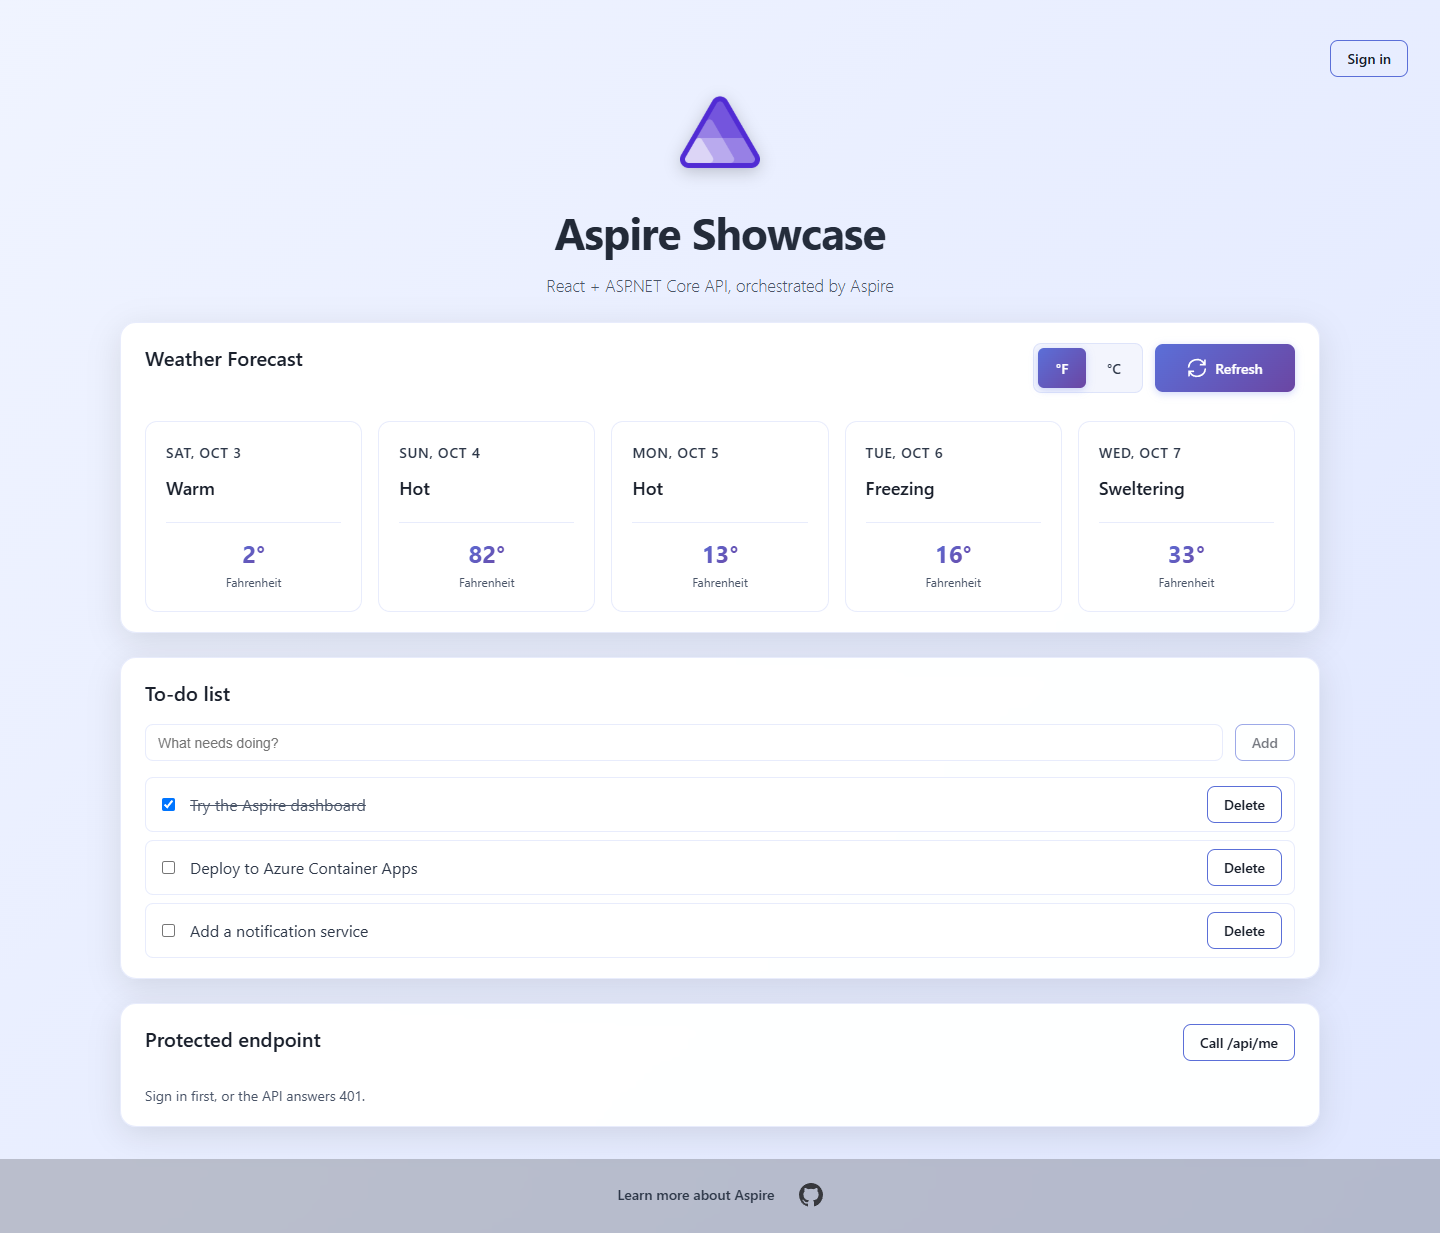
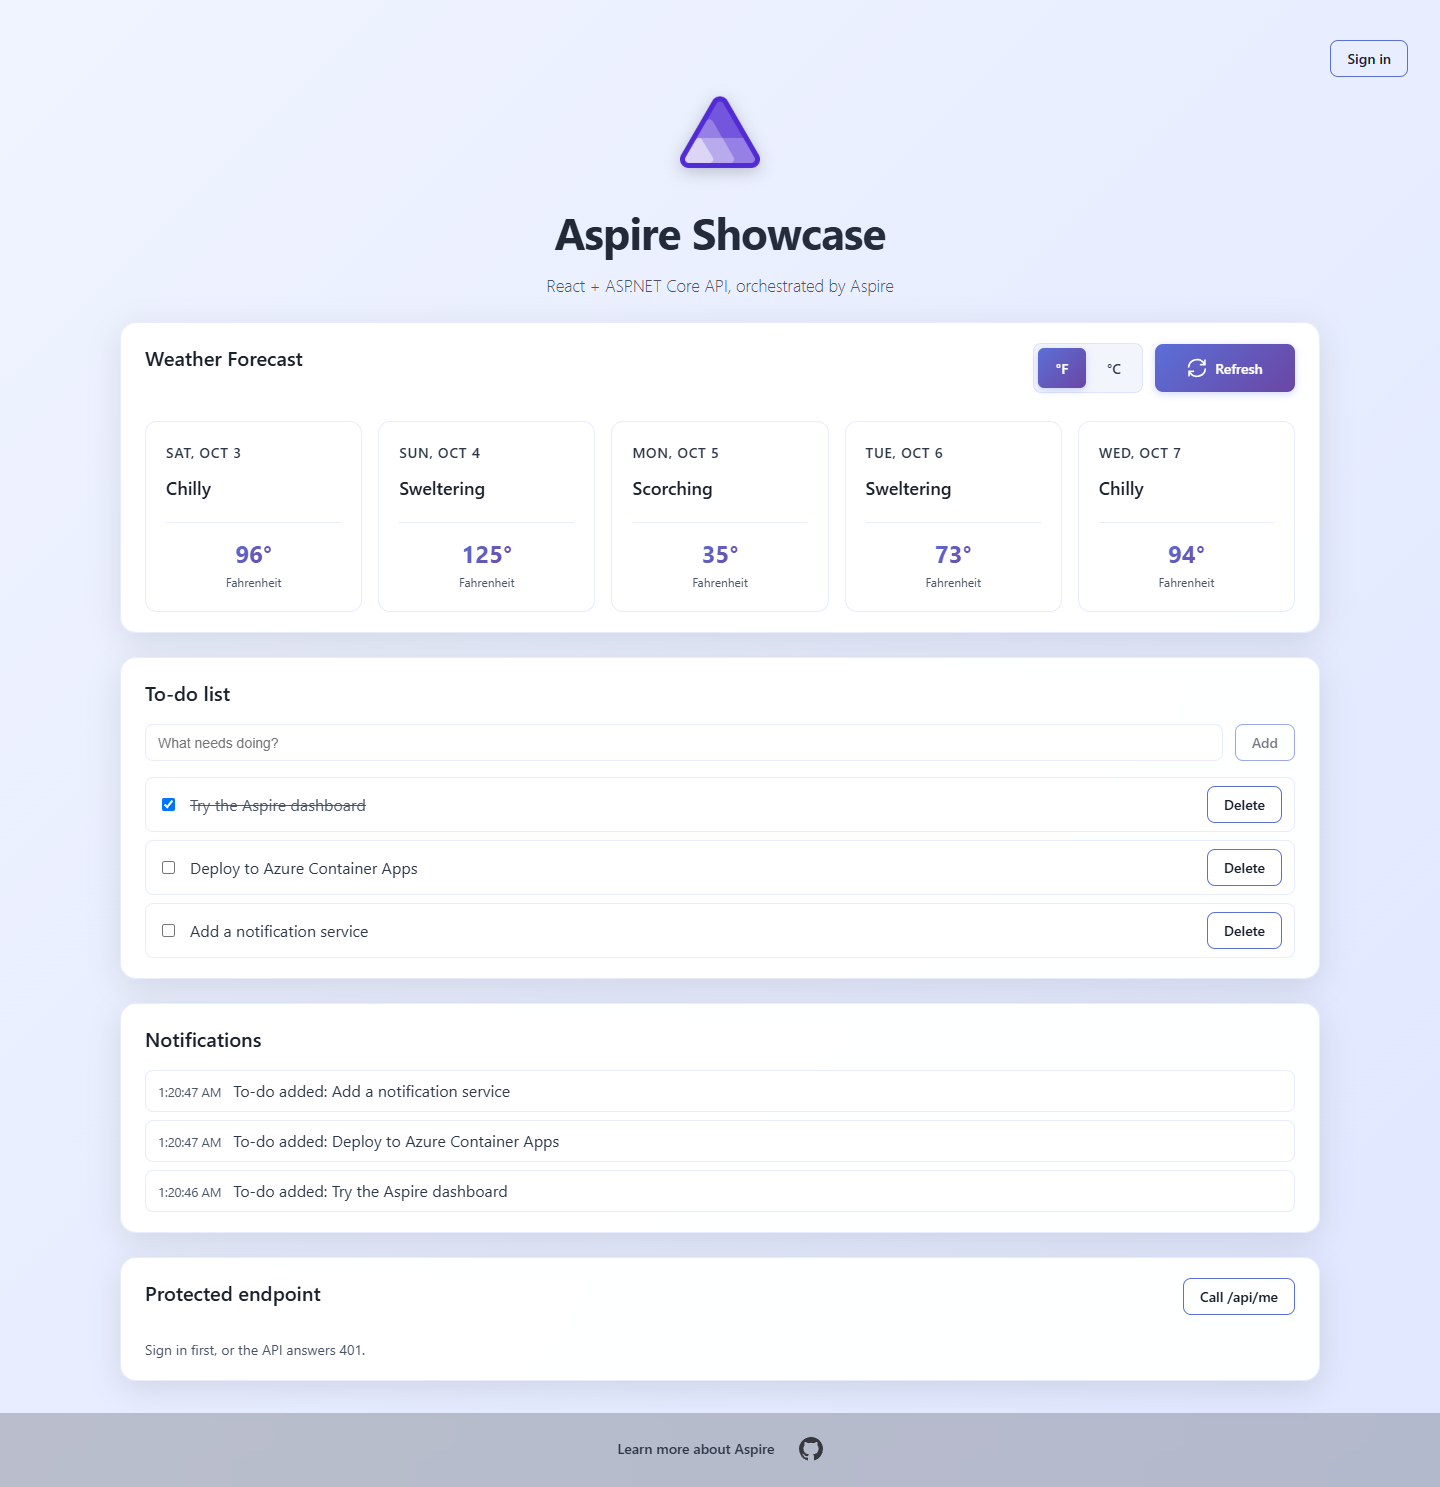
Document the notifications service
Covers how the service is called, its telemetry and what happens when it's down, with a cross-service trace and its metrics, and retakes the app and dashboard screenshots with the new resource.

Changed region(s): [[0.0, 0.0616, 1.0, 0.9862], [0.9375, 0.0308, 0.9688, 0.0616]]

diff --git a/README.md b/README.md
@@ -2,16 +2,16 @@
 
 React + ASP.NET Core API with [Aspire](https://aspire.dev), deployed to Azure Container Apps.
 
-![The app: weather forecast and the to-do list](docs/images/app.png)
+![The app: weather forecast, the to-do list and its notifications](docs/images/app.png)
 
 ## What this shows
 
-One AppHost describes the whole system: a React app, an ASP.NET Core API, [Logto](https://logto.io) for sign-in, one PostgreSQL server holding the app's database and Logto's, and Redis as a cache. The same description is used twice:
+One AppHost describes the whole system: a React app, an ASP.NET Core API, a notifications service the API calls, [Logto](https://logto.io) for sign-in, one PostgreSQL server holding the app's database and Logto's, and Redis as a cache. The same description is used twice:
 
-- **Locally**, `aspire run` starts everything on your machine (the API as a process, Vite with hot reload, Logto, PostgreSQL and Redis as containers) and sends logs, traces and metrics to the Aspire dashboard.
+- **Locally**, `aspire run` starts everything on your machine (the API and the notifications service as processes, Vite with hot reload, Logto, PostgreSQL and Redis as containers) and sends logs, traces and metrics to the Aspire dashboard.
 - **In Azure**, `aspire deploy` turns it into Container Apps, a PostgreSQL Flexible Server, Key Vault and Application Insights, from a GitHub Actions workflow.
 
-The app itself is small on purpose (a weather forecast, a to-do list and one protected endpoint); the point is the AppHost in `src/AspireShowcase.AppHost`.
+The app itself is small on purpose (a weather forecast, a to-do list with notifications and one protected endpoint); the point is the AppHost in `src/AspireShowcase.AppHost`.
 
 ## Aspire dashboard, locally
 
@@ -31,6 +31,10 @@ One request in detail: the API's own `todos.update` span around the two database
 
 ![Aspire dashboard: trace detail](docs/images/dashboard-trace-detail.png)
 
+A trace across two services: adding a to-do item in `web` calls `notifications`, and both sides show in one trace.
+
+![Aspire dashboard: a trace from web into the notifications service](docs/images/dashboard-trace-notifications.png)
+
 The API's own metrics, next to the ones from ASP.NET Core and Npgsql:
 
 ![Aspire dashboard: metrics](docs/images/dashboard-metrics.png)
@@ -42,6 +46,7 @@ src/
 ├── AspireShowcase.AppHost/          # orchestration + Azure target
 ├── AspireShowcase.ServiceDefaults/  # telemetry, health checks
 ├── AspireShowcase.Api/              # API, serves the UI in Azure
+├── AspireShowcase.Notifications/    # notifications service, called by the API
 └── AspireShowcase.Web/              # React + Vite
 ```
 
@@ -82,6 +87,15 @@ The `/api/todos` endpoints are open: anyone who can reach the app can add, chang
 The API keeps the to-do list in Redis, the `cache` resource, for up to 5 minutes. Adding, changing or deleting an item removes the cached list, so the next request reads the database again.
 
 Redis runs as a container both locally and in Azure. In Azure it's a Container App reachable only from inside the Container Apps environment, protected by a password. It keeps nothing on disk: a restart empties the cache and the API fills it again.
+
+## Notifications
+
+`AspireShowcase.Notifications` is a second ASP.NET Core service, the `notifications` resource. After a to-do item is added or removed, the API posts a notification to it; the service keeps the latest 50 in memory, and the Notifications card in the app lists the newest five.
+
+- The API calls it as `http://notifications`. The AppHost's `WithReference` passes the real address, and service discovery from ServiceDefaults resolves the name, both locally and in Azure.
+- The browser never talks to it. The card reads `/api/notifications`, which the API passes on. In Azure the service is a Container App with no external endpoint.
+- Notifications are an extra: a call gets 3 seconds, and after a failure the service is left alone for 15 seconds, so the to-do list keeps working when it's down.
+- They live in memory, so a restart of the service empties the list.
 
 ## Logto
 
@@ -130,7 +144,7 @@ Then open `http://localhost:5173`, click **Sign in**, and **Call /api/me** on th
 
 On top of what ASP.NET Core, Npgsql and the Redis client record by themselves, the API records its own telemetry for the to-do list in `src/AspireShowcase.Api/Todos/TodoTelemetry.cs`.
 
-Each operation runs in a span (`todos.list`, `todos.create`, `todos.update`, `todos.delete`), and what happens inside is added to the span as events: `cache.hit`, `cache.miss`, `cache.invalidated`, `cache.unavailable`, `todo.created`, `todo.updated`, `todo.completed`, `todo.deleted`, `todo.rejected`.
+Each operation runs in a span (`todos.list`, `todos.create`, `todos.update`, `todos.delete`), and what happens inside is added to the span as events: `cache.hit`, `cache.miss`, `cache.invalidated`, `cache.unavailable`, `todo.created`, `todo.updated`, `todo.completed`, `todo.deleted`, `todo.rejected`, `notification.sent`, `notification.failed`, `notification.skipped`.
 
 | Metric | Kind | Measures |
 |---|---|---|
@@ -138,8 +152,24 @@ Each operation runs in a span (`todos.list`, `todos.create`, `todos.update`, `to
 | `todos.list.reads` | Counter | Reads of the list, by whether the cache answered (`result` tag: `hit`, `miss`) |
 | `todos.completion.time` | Histogram | Seconds from creating an item to ticking it off |
 | `todos.items` | Gauge | Open and done items when the list was last read from the database (`state` tag) |
+| `todos.notifications` | Counter | Notifications the API tried to send (`kind` tag; `result` tag: `sent`, `failed`, `skipped`) |
 
 The source and the meter are both named `AspireShowcase.Api`, the application name, which is what the ServiceDefaults project subscribes to. Item titles are never recorded.
+
+The notifications service does the same in `src/AspireShowcase.Notifications/NotificationTelemetry.cs`, under the name `AspireShowcase.Notifications`. Its spans are `notifications.record` and `notifications.list`, with the events `notification.recorded`, `notification.rejected` and `notification.evicted` (an old one dropped to stay within 50).
+
+| Metric | Kind | Measures |
+|---|---|---|
+| `notifications.received` | Counter | Notifications accepted and stored (`kind` tag) |
+| `notifications.rejected` | Counter | Notifications refused as invalid |
+| `notifications.message.length` | Histogram | Characters in the messages received |
+| `notifications.stored` | Gauge | Notifications currently kept in memory |
+
+Because the trace context travels with the HTTP call, the service's `notifications.record` span sits inside the API's `todos.create` span in one trace:
+
+![Aspire dashboard: the notifications service's span and event inside the API's trace](docs/images/dashboard-notifications-trace.png)
+
+![Aspire dashboard: the notifications service's metrics](docs/images/dashboard-notifications-metrics.png)
 
 ## Try failures
 
@@ -182,6 +212,10 @@ The to-do list keeps working from the database. The first request waits about 5 
 ![Aspire dashboard: trace of a request while Redis is down](docs/images/dashboard-failure-cache-trace.png)
 
 Start `cache` again and `web` returns to healthy.
+
+### Notifications service is down
+
+Stop the `notifications` resource. The first add or remove waits 3 seconds for it and then succeeds without a notification; the following ones don't wait. The Notifications card shows an error (503) until the service is started again. The `todos.create` and `todos.delete` spans carry a `notification.failed` event and the log has a warning.
 
 ## Deploy
 
@@ -237,6 +271,7 @@ Deploy publishes two workbooks to `insights` → Workbooks, each with a time ran
 | Database | PostgreSQL queries and failures, query duration, statements by total time, failed queries, connection pool metrics |
 | Cache | To-do list cache hits and misses, Redis commands, command duration, failed commands |
 | To-dos | The API's custom telemetry: the `todos.*` metrics, the operation spans and their events |
+| Notifications | Notifications sent by the API and received by the service, calls between the two, the service's spans and events |
 | Runtime | Requests in progress, memory, thread pool, running instances, app starts and stops |
 | Trace lookup | Everything recorded for one request, in order: paste an `operation_Id` from any table |
 

diff --git a/TODO.md b/TODO.md
@@ -4,5 +4,5 @@ Next version of the showcase.
 
 - [x] **App database with CRUD.** Give the API a database of its own and a few CRUD endpoints, so the showcase covers `WithReference` to a data resource and a client integration.
   - In Azure, keep one PostgreSQL server with two databases (Logto's and the app's) rather than adding a second server.
-- [ ] **Notification service.** Add a second .NET service that the API calls, to show service discovery and a distributed trace across services.
+- [x] **Notification service.** Add a second .NET service that the API calls, to show service discovery and a distributed trace across services.
 - [x] **README.** Add an explanation of what the repo shows, a list of the Aspire features demonstrated, and some screenshots (Aspire dashboard, the app).
